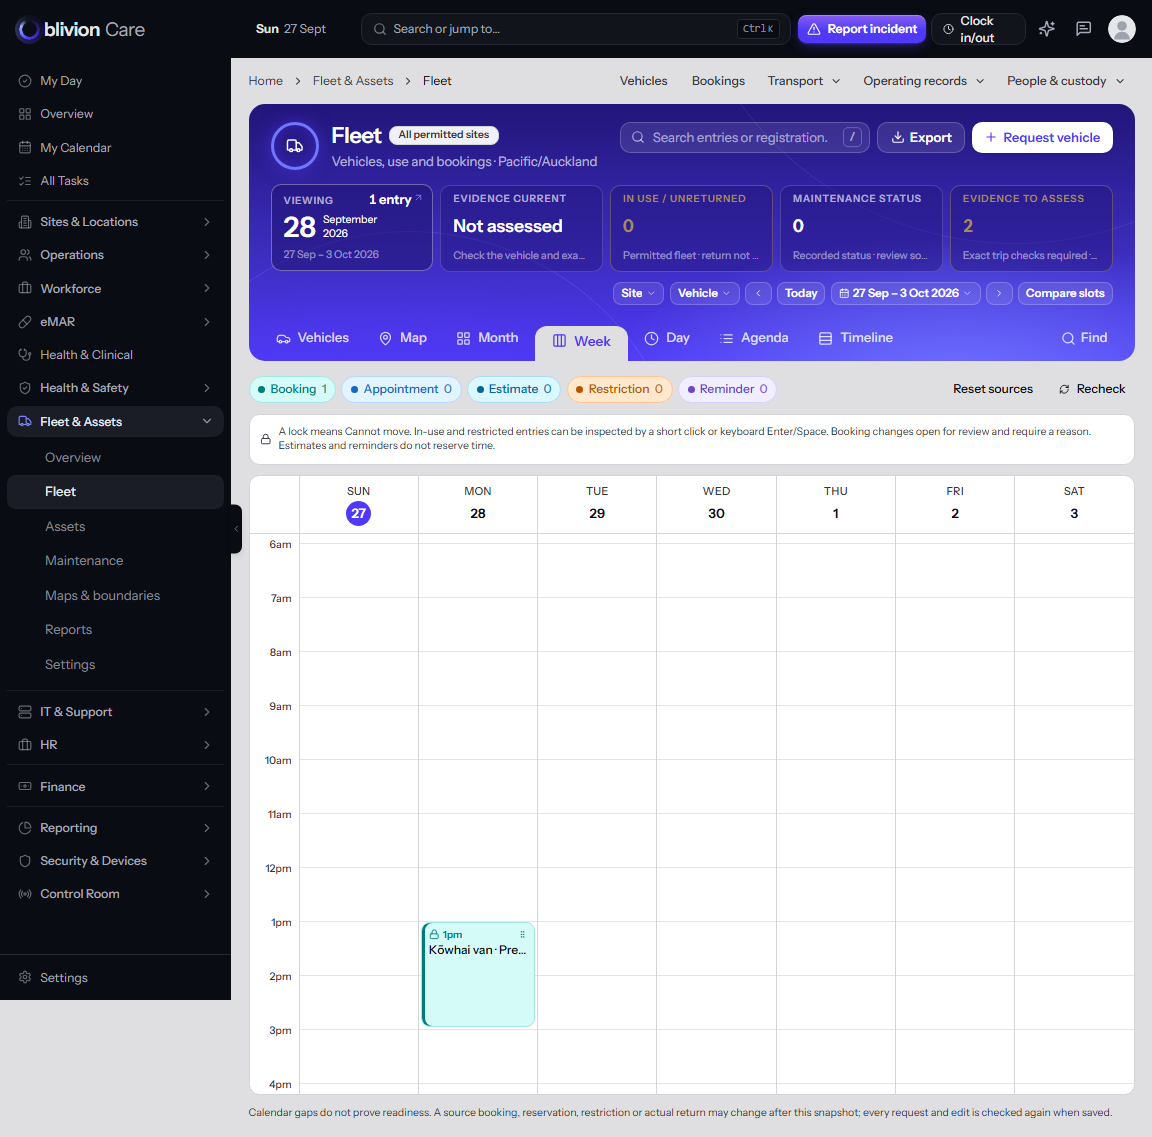
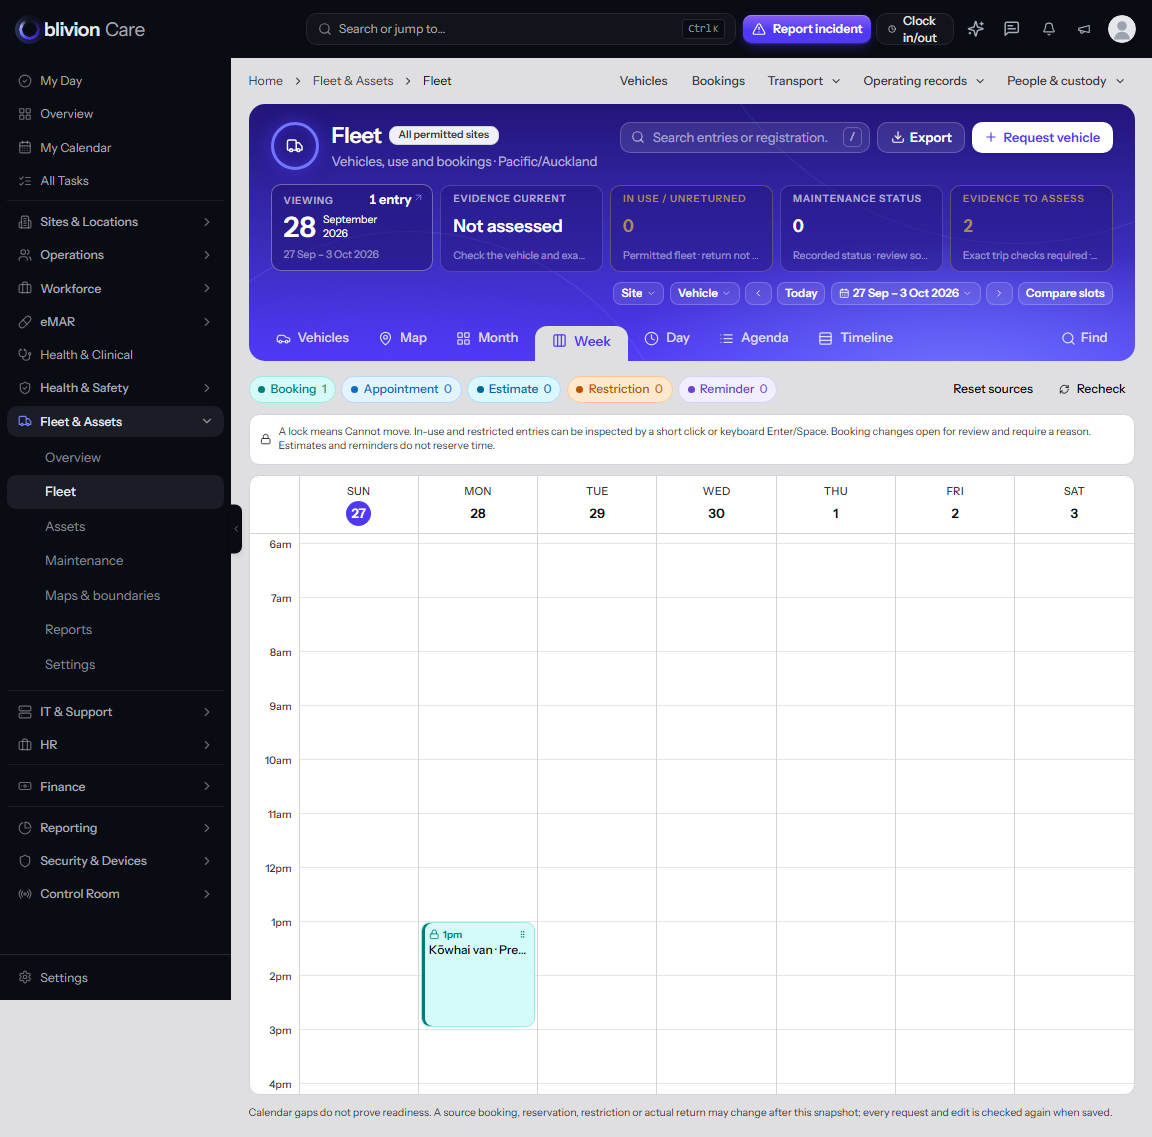
docs(fleet): record verified main integration candidate

Changed region(s): [[0.5938, 0.0, 0.9375, 0.0616], [0.2188, 0.0, 0.4375, 0.0308]]

diff --git a/docs/fleet-assets-audit/evidence/PKG-04/PUBLICATION.md b/docs/fleet-assets-audit/evidence/PKG-04/PUBLICATION.md
@@ -1,0 +1,31 @@
+# PKG-04 publication candidate
+
+27 September 2026, Pacific/Auckland. Stephan explicitly authorised committing the completed Fleet workspace, merging to local main and publishing GitHub main. This supersedes the historical implementation-only restrictions in the local release notes. Sol remains archived.
+
+## Candidate and reconciliation
+
+- Worktree: `C:/Users/steph/.codex/worktrees/1eb2/oblivionfindings`.
+- Branch: `codex/pkg04-fleet-completion`.
+- Current-main base: `ba5bff2e8b6c22796369443f1cdac918039950dd`, verified equal to origin/main before integration.
+- Implementation commit: `bf373ff97`; merge with current main: `d85adebc0`; compact filter-row correction: `b0ccaa7a9`; reminder privacy regression update: `42375729aa688fcdf4d9683339784873aa466943`.
+- The location-service conflict retains both the fleet-wide projection and Main's newer Overview position method. Navigation tests retain Main's formatting and identical exact-name semantics. Appointment Undo, reminder privacy and all other current-main changes remain present.
+- The older test expecting a generic foreign-site Maintenance reminder was corrected to Main's stricter hidden-reminder contract. The same test now explicitly checks that the fleet-wide calendar withholds that reminder from central oversight and exposes it to its authorised site manager. No application permission was relaxed.
+- The published change includes production source, tests, this report and selected final evidence. Frozen v1-v9 references and temporary preview servers, credentials, database helpers, generated bundles and intermediate/failing logs remain local; they are not production dependencies.
+
+## Verification of the reconciled candidate
+
+- Frontend: **79 tests across 15 files passed**, including Fleet, navigation, shared calendar, canonical record commands and newer Overview tests (`implementation/integration-vitest.log`).
+- Backend: **44 tests, 796 assertions passed** across Fleet scope/privacy, Vehicle Calendar and Overview contracts (`implementation/integration-final-phpunit.log`). The initial run found the stale reminder expectation described above; the corrected full rerun passed.
+- Backend tests use a fresh process-isolated database and schema-only snapshot of the dedicated synthetic preview (917 tables, 1105 migrations). An evidence-only bootstrap prevents pruning sibling databases and uses the main branch's supported schema timeout setting. Only the preview received main's two existing migrations; no operational database was changed.
+- Full TypeScript checking passed. Strict changed-file ESLint passed with zero warnings, including the final compact filter-row class adjustment. PHP syntax and `git diff main HEAD --check` passed.
+- Final production build passed in **4m 31s**, with only the existing large-chunk advisory. The row adjustment was made before this build began; subsequent changes were test/evidence only.
+- Actual Laravel preview checks passed with zero runtime errors: 1152/1440 layout, map layers/filters/menus/compact hover, inherited criteria clearing, filtered export, Timeline handoff, canonical source returns, Week/Month moves, quarter-hour range preservation, Auckland/DST bounds, protected gestures and reviewed save/Undo. Simulated feeds are limited to the documented stale, protected and Month-overflow cases.
+- The synthetic booking was restored to its original times through reviewed Undo; required pending approval remains. The build/preview is served from this worktree at `http://localhost:8767/fleet-assets/vehicles?view=map` (also 127.0.0.1).
+
+Final browser logs are `implementation/integration-browser-{layout,regression,protected,workflows}.log`. Source hashes are `implementation/integration-source-hashes.json`. The updated Map and Week screenshots accompany the candidate. Older audit sections describe historical intermediate results and are superseded by this record for integration checks.
+
+## Remaining boundaries
+
+Main's exact-candidate technical decision is requested before the local-main fast-forward and remote push. Existing dirty Main records must be preserved. This candidate adds no migration, deployment command or operational activation.
+
+GitHub main's pre-existing test run [36290861559](https://github.com/Rory357/oblivionfindings/actions/runs/36290861559), on base `ba5bff2e8`, is failing across the broader repository (including Compliance and Control Room). This predates PKG-04 publication; full CI is not claimed green. Deployment, operational acceptance and large-fleet load verification remain separate from the completed desktop implementation and targeted integration checks.
